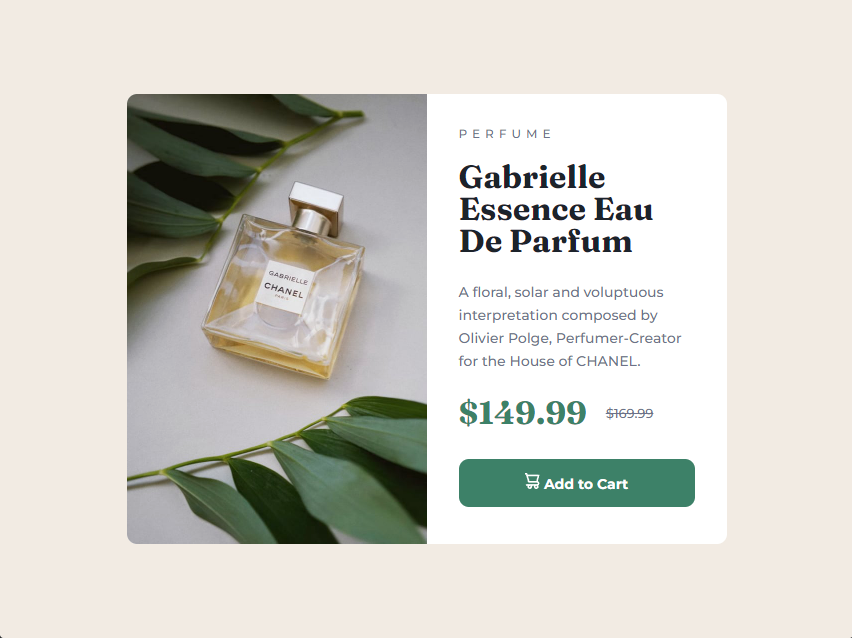
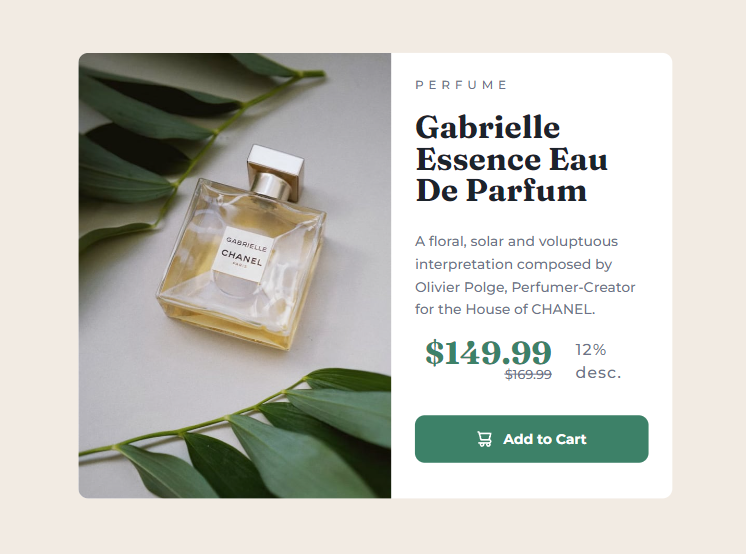
feat: adding price discount and structures

diff --git a/assets/css/styles.css b/assets/css/styles.css
@@ -29,11 +29,17 @@ body {
   background-color: var(--body-color);
 }
 
+a {
+  text-decoration: none;
+}
+
 .container {
   width: 343px;
   height: 611px;
   margin: 28px 16px;
   border-radius: 10px;
+  display: flex;
+  flex-direction: column;
   overflow: hidden;
   background-color: var(--light-color);
 }
@@ -41,6 +47,10 @@ body {
 .image-preview img {
   width: 100%;
   display: block;
+}
+
+.image-preview img.desktop {
+  display: none;
 }
 
 .card-description {
@@ -62,7 +72,7 @@ body {
   font-weight: var(--font-bold);
   font-size: 32px;
   line-height: 32px;
-  margin-bottom: 16px;
+  margin-bottom: 14px;
 }
 
 .card-description p {
@@ -70,21 +80,25 @@ body {
   font-size: 14px;
   color: var(--primary-color);
   font-family: var(--body-font);
-  margin-bottom: 24px;
+  margin-bottom: 16px;
 }
 
-.price {
+.price-content {
   display: flex;
-  align-items: center;
-  margin-bottom: 20px;
+  flex-direction: row;
+  text-align: end;
+  justify-content: center;
+  gap: 24px;
+  margin-bottom: 14px;
 }
 
-.price #price-current,
-.price #price-original {
+.price-content #price-current,
+.price-content #price-original,
+.price-content #discount {
   margin: 0;
 }
 
-.price #price-current {
+.price-content #price-current {
   font-size: 32px;
   line-height: 32px;
   color: var(--secondary-color);
@@ -92,17 +106,27 @@ body {
   font-family: var(--title-font);
 }
 
-.price #price-original {
+.price-content #price-original {
   font-size: 13px;
-  line-height: 23px;
-  margin-left: 19px;
+  margin-top: -6px;
   color: var(--primary-color);
   text-decoration: line-through;
   font-family: var(--body-font);
 }
 
+.price-content .price-discount {
+  display: flex;
+  align-items: center;
+}
+
+.price-discount #discount {
+  font-size: 16px;
+  letter-spacing: 1px;
+  color: var(--primary-color);
+}
+
 .btn {
-  width: 295px;
+  width: 100%;
   height: 48px;
   display: flex;
   justify-content: center;
@@ -118,30 +142,41 @@ body {
 }
 
 .btn a {
+  display: flex;
+  align-items: center;
+  justify-content: center;
   font-weight: var(--font-bold);
   font-size: 14px;
   font-family: var(--body-font);
   color: var(--light-color);
-  text-decoration: none;
+}
+
+.btn a img {
+  margin-right: 11.61px;
 }
 
 @media (min-width: 611px) {
   .container {
-    width: 600px;
+    min-width: 600px;
     height: 450px;
     display: flex;
     flex-direction: row;
   }
 
-  .image-preview .change-image {
-    content: url(/assets/img/image-product-desktop.jpg);
-    width: 300px;
-    height: 450px;
+  .image-preview img.desktop {
+    display: block;
+  }
+
+  .image-preview img.mobile {
+    display: none;
   }
 
   .card-description {
     width: 300px;
-    padding: 32px;
+  }
+
+  .card-description p {
+    margin-bottom: 24px;
   }
 
   .card-description h5 {
@@ -152,8 +187,13 @@ body {
     margin-bottom: 24px;
   }
 
-  .price {
+  .price-content {
+    padding-left: 10px;
     margin-bottom: 30px;
+  }
+
+  .price-content .price-discount {
+    text-align: start;
   }
 
   .btn {

diff --git a/index.html b/index.html
@@ -29,8 +29,14 @@
     <div class="container">
       <div class="image-preview">
         <img
-          src="/assets/img/image-product-mobile.jpg"
-          class="change-image"
+          src="assets/img/products/image-product-mobile.jpg"
+          class="mobile"
+          alt="perfume photo"
+        />
+
+        <img
+          src="assets/img/products/image-product-desktop.jpg"
+          class="desktop"
           alt="perfume photo"
         />
       </div>
@@ -43,14 +49,19 @@
           Polge, Perfumer-Creator for the House of CHANEL.
         </p>
 
-        <div class="price">
-          <p id="price-current">$149.99</p>
-          <p id="price-original">$169.99</p>
+        <div class="price-content">
+          <div class="prices">
+            <p id="price-current">$149.99</p>
+            <p id="price-original">$169.99</p>
+          </div>
+          <div class="price-discount">
+            <p id="discount">12% desc.</p>
+          </div>
         </div>
 
         <div class="btn">
           <a href="#">
-            <img src="assets/img/icon-cart.svg" alt="" />
+            <img src="assets/img/icons/icon-cart.svg" alt="" />
             Add to Cart
           </a>
         </div>
